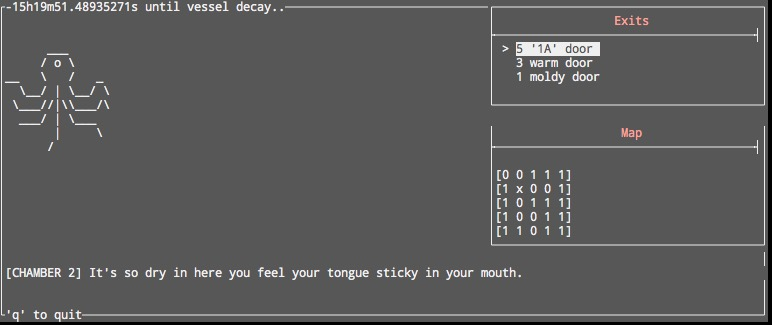
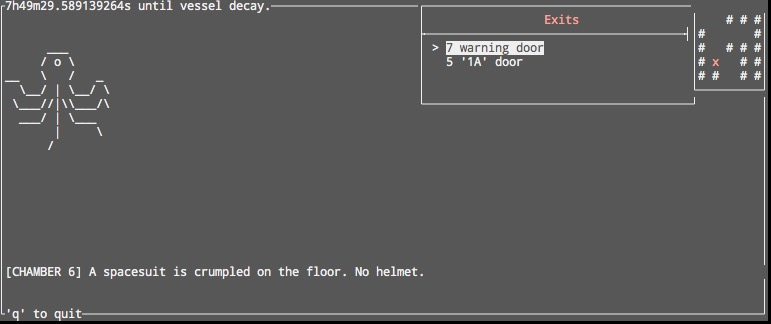
moving and restyling map window

diff --git a/main.go b/main.go
@@ -15,7 +15,7 @@ import (
 const longForm = "Jan 2, 2006 at 3:04pm (MST)"
 
 func updateTimer(w *gc.Window) {
-	t, _ := time.Parse(longForm, "Aug 28, 2016 at 7:54pm (EST)")
+	t, _ := time.Parse(longForm, "Aug 29, 2016 at 7:54pm (EST)")
 	for _ = range time.Tick(time.Second) {
 		until := t.Sub(time.Now())
 		w.MovePrint(0, 1, fmt.Sprintf("%v until vessel decay.", until.String()))
@@ -43,26 +43,20 @@ func visorView(y int) *gc.Window {
 }
 
 func vesselMap(x int, current v.Chamber, chambers []*v.Chamber) *gc.Window {
+	vmap := vp.ParseVesselMap()
+
 	// NewWindow(lines, columns, y, x)
-	mapwin, err := gc.NewWindow(10, 40, 8, x-40)
+	mapwin, err := gc.NewWindow(len(vmap)+2, 11, 0, x-11)
 	if err != nil {
 		log.Fatal(err)
 	}
 	_, x = mapwin.MaxYX()
-	title := "Map"
 	mapwin.Box(0, 0)
-	mapwin.ColorOn(1)
-	mapwin.MovePrint(1, (x/2)-(len(title)/2), title)
-	mapwin.ColorOff(1)
-	mapwin.MoveAddChar(2, 0, gc.ACS_LTEE)
-	mapwin.HLine(2, 1, gc.ACS_HLINE, x-3)
-	mapwin.MoveAddChar(2, x-2, gc.ACS_RTEE)
-
-	vmap := vp.ParseVesselMap()
 
 	vy, err := strconv.Atoi(current.Y)
 	vx, err := strconv.Atoi(current.X)
 
+	windowPadding := 1
 	for i, row := range vmap {
 		rowFormatted := strings.Trim(fmt.Sprint(row), "[]")
 		rowFormatted = strings.Replace(rowFormatted, "0", " ", -1)
@@ -71,16 +65,18 @@ func vesselMap(x int, current v.Chamber, chambers []*v.Chamber) *gc.Window {
 		if vy == i {
 			mapwin.Move(0, 0)
 			mapwin.ClearToEOL()
-			mapwin.MovePrint(4+i, 1, rowFormatted)
+			mapwin.MovePrint(windowPadding+i, 1, rowFormatted)
 
+			mapwin.ColorOn(1)
 			marker := "x"
 			if vx >= 1 {
-				mapwin.MovePrint(4+i, 1+vx*2, marker)
+				mapwin.MovePrint(windowPadding+i, 1+vx*2, marker)
 			} else {
-				mapwin.MovePrint(4+i, 1+vx, marker)
+				mapwin.MovePrint(windowPadding+i, 1+vx, marker)
 			}
+			mapwin.ColorOff(1)
 		} else {
-			mapwin.MovePrint(4+i, 1, rowFormatted)
+			mapwin.MovePrint(windowPadding+i, 1, rowFormatted)
 		}
 	}
 
@@ -102,7 +98,7 @@ func chamberMenu(stdscr *gc.Window, chamber v.Chamber, chambers []*v.Chamber) (*
 
 	_, x := stdscr.MaxYX()
 	// NewWindow(lines, columns, y, x)
-	menuwin, err := gc.NewWindow(8, 40, 0, x-40)
+	menuwin, err := gc.NewWindow(8, 40, 0, x-50)
 	if err != nil {
 		log.Fatal(err)
 	}
